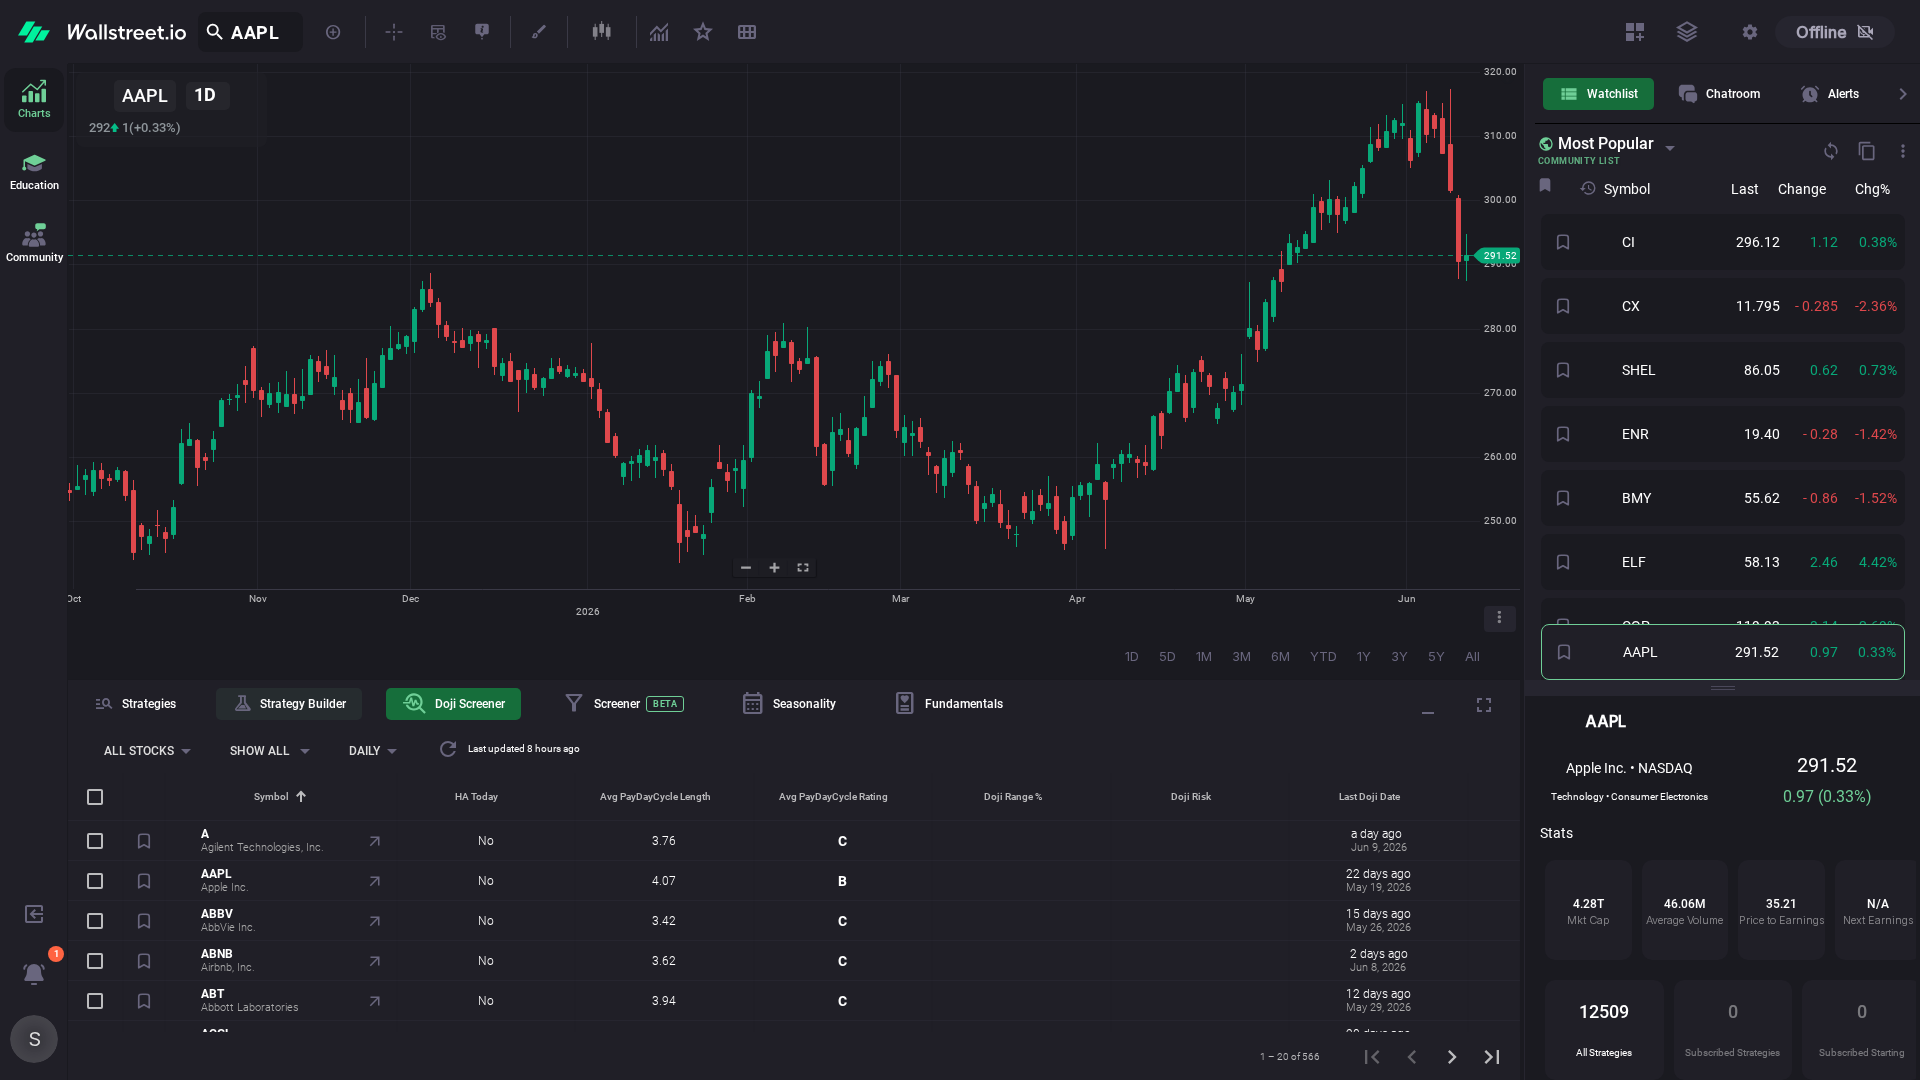
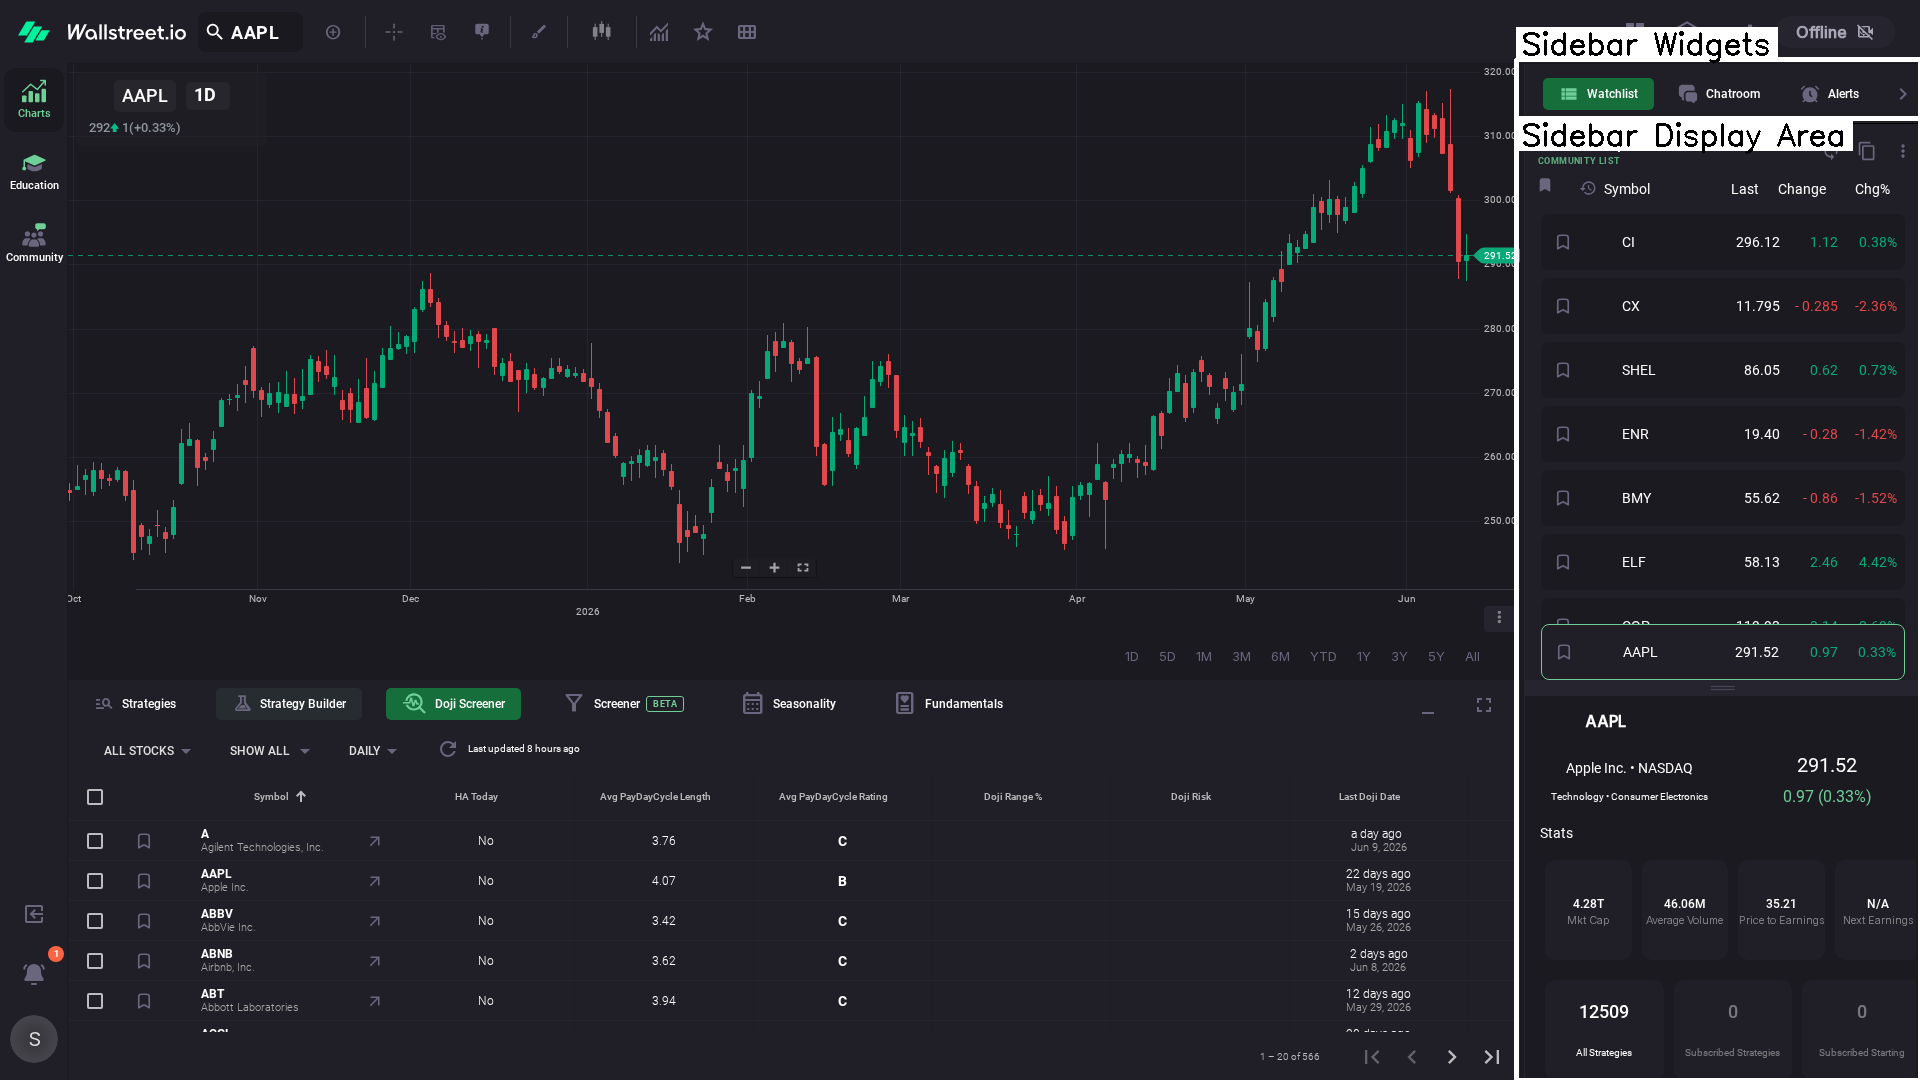
Finish sidebar screenshot. Start education screenshot

diff --git a/scripts/screenshot.py b/scripts/screenshot.py
@@ -325,17 +325,24 @@ def markup_toolbar():
 
 
 def markup_sidebar():
-    """Markup and sidebar screenshot to complete directory."""
-    source = FRESH / Shot.SIDEBAR.value
-    dest = COMPLETE / Shot.SIDEBAR.value
-    shutil.copy2(source, dest)
+    """Markup and save sidebar screenshot to complete directory."""
+    img = cv2.imread(FRESH / Shot.SIDEBAR.value)
+    sidebar_widgets = norm_bbox(img, 0.79, 0.055, 1.0, 0.11)
+    img = bbv.draw_box(img, sidebar_widgets)
+    img = bbv.add_label(img, "Sidebar Widgets", sidebar_widgets, top=True)
+    sidebar_display = norm_bbox(img, 0.79, 0.11, 1.0, 1.0)
+    img = bbv.draw_box(img, sidebar_display)
+    img = bbv.add_label(img, "Sidebar Display Area", sidebar_display, top=False)
+    cv2.imwrite(COMPLETE / Shot.SIDEBAR.value, img)
 
 
 def markup_education():
     """Copy education app screenshot to complete directory."""
-    source = FRESH / Shot.EDUCATION_APP.value
-    dest = COMPLETE / Shot.EDUCATION_APP.value
-    shutil.copy2(source, dest)
+    img = cv2.imread(FRESH / Shot.EDUCATION_APP.value)
+    widgets = norm_bbox(img, 0.035, 0.06, 0.79, 0.63)
+    img = bbv.draw_box(img, widgets)
+    img = bbv.add_label(img, "Widgets", widgets)
+    cv2.imwrite(COMPLETE / Shot.EDUCATION_APP.value, img)
 
 
 def markup_community():

diff --git a/docs/layout/3-charts-app.md b/docs/layout/3-charts-app.md
@@ -6,7 +6,7 @@
 ### Chart Area
 ![Charts app](../assets/screenshots/chart-area.png){ loading=lazy }
 
-* Stock Search: The Stock Search is boxed in white with no label.
+* Stock Search
 * [Charting Tools](../charts-app/chart-area/1-charting-tools.md)
 * [Plot](../charts-app/chart-area/2-plot.md)
 
@@ -26,8 +26,8 @@
 ### Sidebar
 ![Charts app](../assets/screenshots/sidebar.png){ loading=lazy }
 
-* Sidebar widget selector
-* Sidebar display area
+* Sidebar Widgets
+* Sidebar Display Area
 * All sidebar widgets:
     * [Watchlist](../charts-app/sidebar/1-watchlist.md)
     * [Chatroom](../charts-app/sidebar/2-chatroom.md)